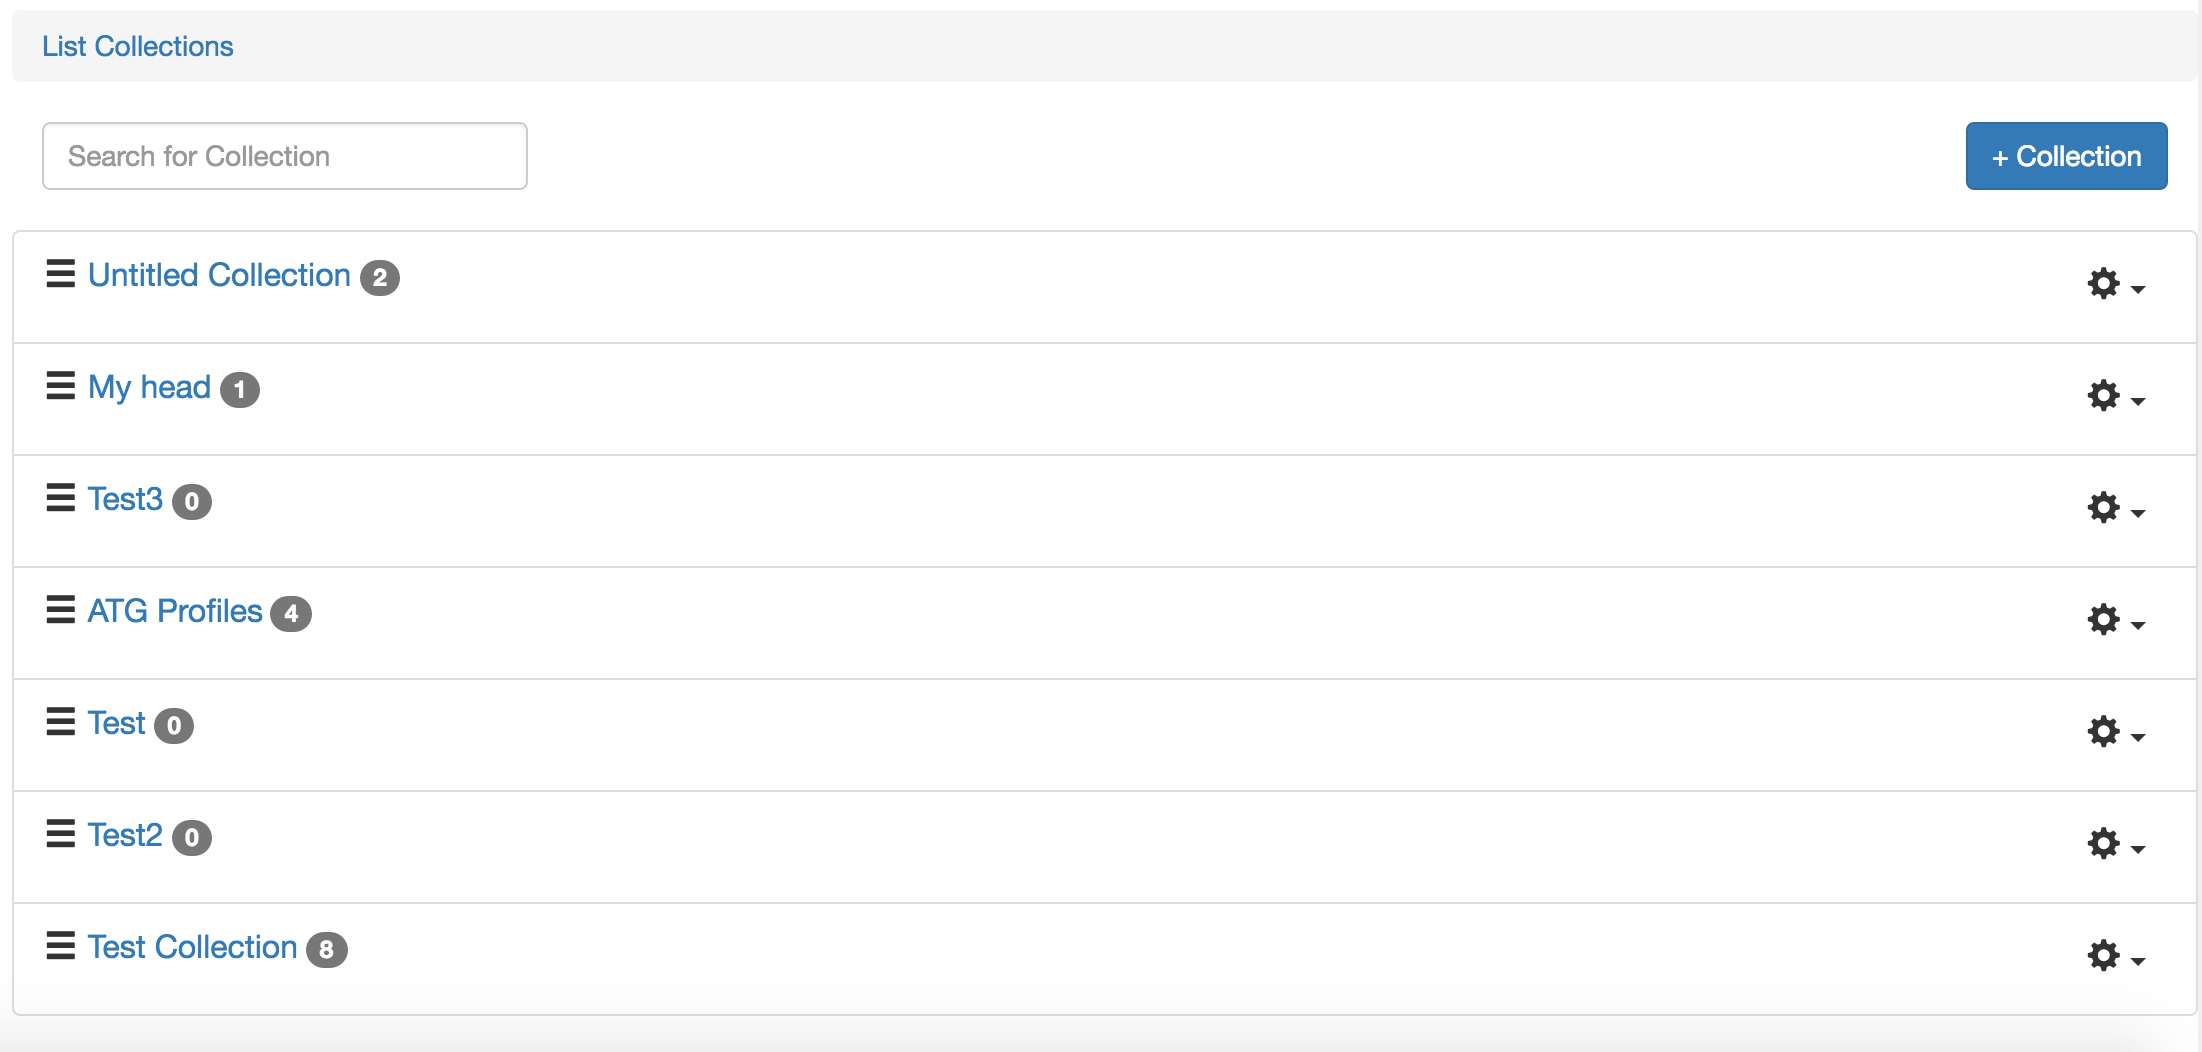
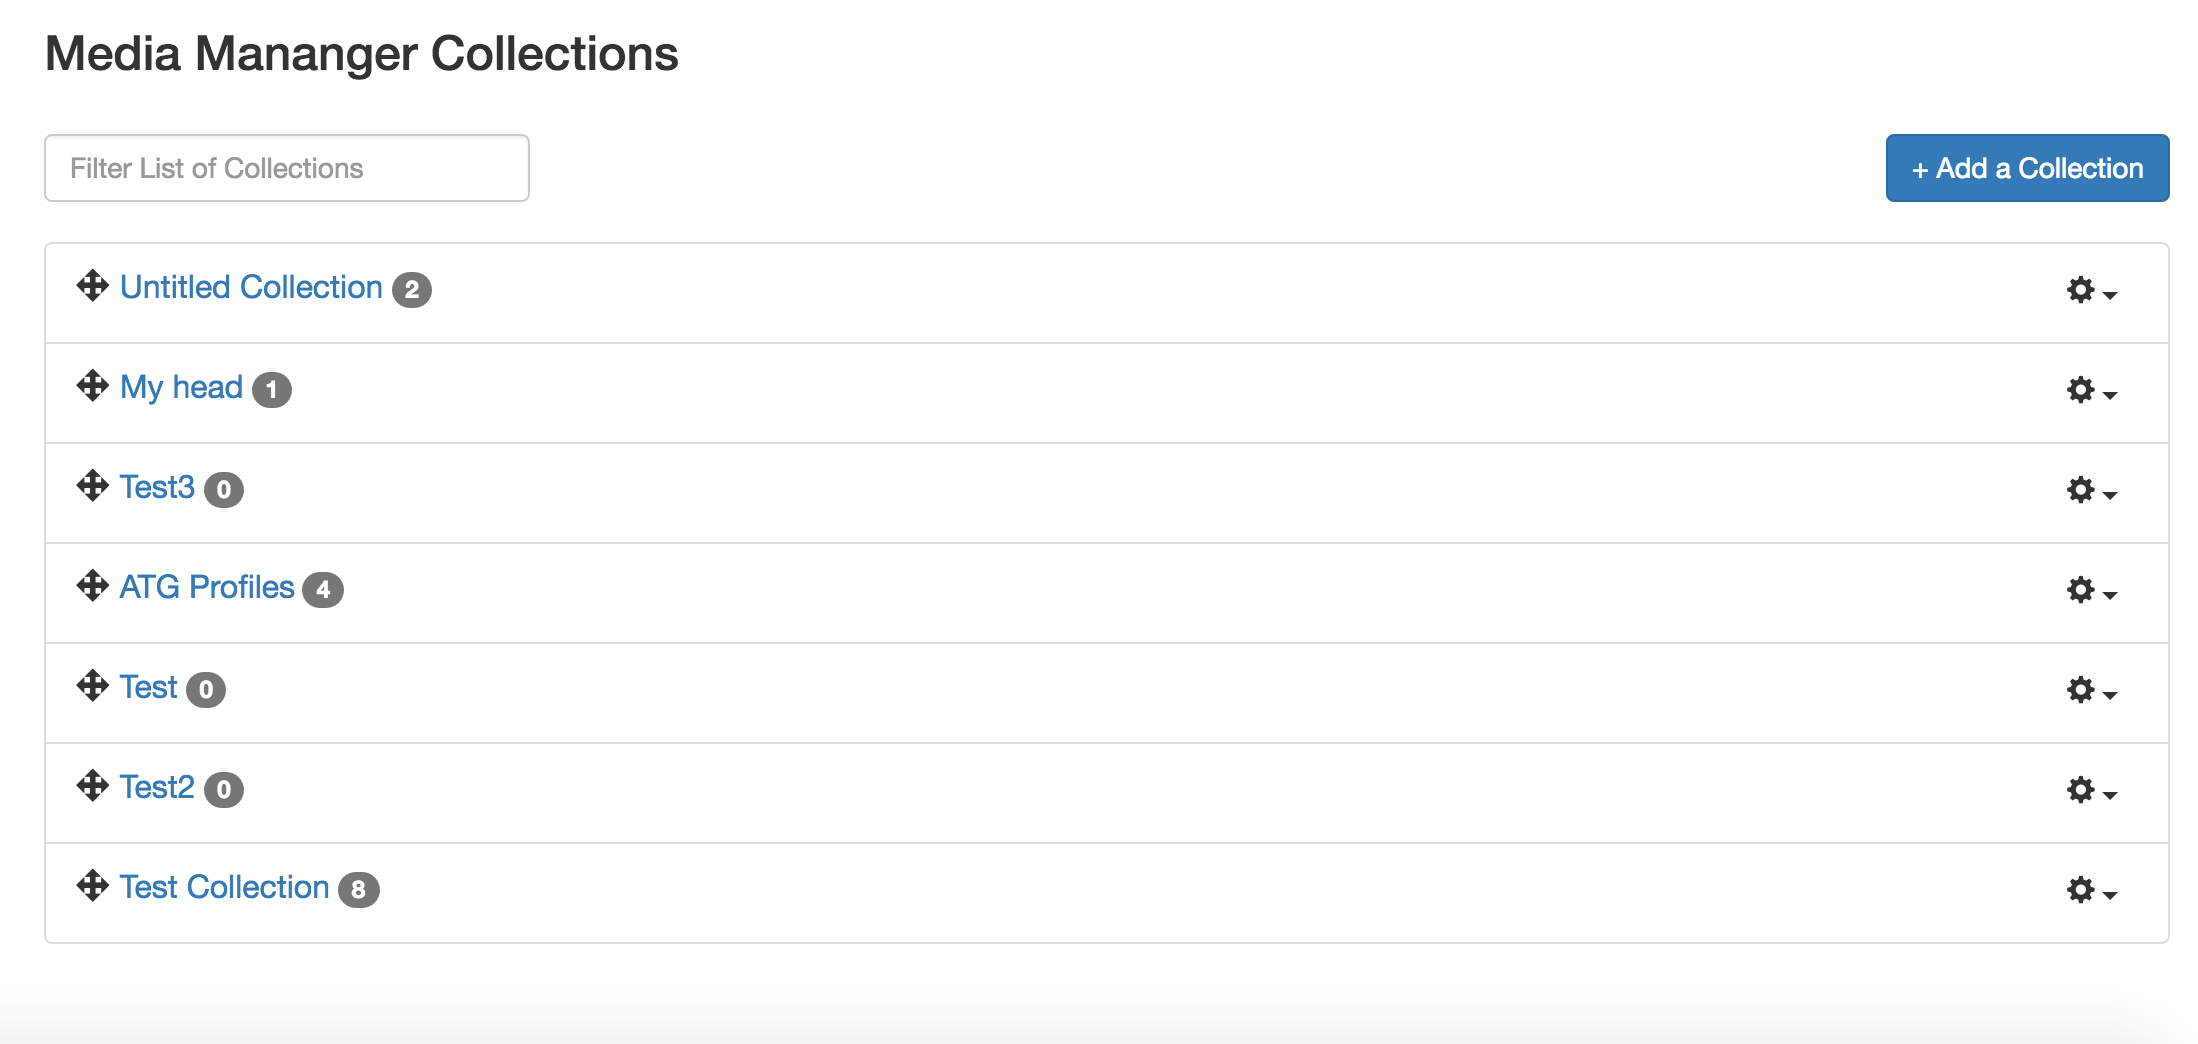
Media Manager home - proposed UI code and screen capture

diff --git a/Media_Manager_home/index.html b/Media_Manager_home/index.html
@@ -14,6 +14,16 @@ window.appConfig = {
     }
 };
   </script>
+<!-- UI comment - modifying vendor.css class to match glyphicon-cog font size with the one of the glyphicon-move icon -->
+<!-- UI comment - modifying vendor.css class to change the color of the background color of the breadcrumb class to white -->
+  <style>
+  .btn-sm {
+    font-size:1.2em;
+  }
+  .breadcrumb {
+    background-color: #ffffff;
+  }
+  </style>
 </head>
 <body ng-app="media_manager" class="ng-scope">
 
@@ -39,25 +49,33 @@ window.appConfig = {
   </nav>
 -->
 
-  <!-- ngView:  --><div ng-view="" class="ng-scope"><!-- ngInclude:  --><div data-ng-include="" data-src="'/static/app/templates/breadcrumbs.html'" class="ng-scope"><ol ng-controller="BreadcrumbsController" class="breadcrumb ng-scope">
-  <!-- ngRepeat: crumb in crumbs --><li ng-repeat="crumb in crumbs" class="ng-scope"><a href="#/" class="ng-binding">List Collections</a></li><!-- end ngRepeat: crumb in crumbs -->
+  <!-- ngView:  --><div ng-view="" class="ng-scope"><!-- ngInclude:  --><div data-ng-include="" data-src="'/static/app/templates/breadcrumbs.html'" class="ng-scope">
+<!-- UI comment - h3 header breadcrumb as in other LTI tools, like Find Cousre Info -->
+  <ol ng-controller="BreadcrumbsController" class="breadcrumb ng-scope">
+  <!-- ngRepeat: crumb in crumbs --><li ng-repeat="crumb in crumbs" class="ng-scope">
+  <!-- UI comment - inline style to compensate for the spacing added by the header -->
+  <h3 style="margin-top:-.05em; margin-bottom:-.05em;">Media Maanger Collections</h3></li><!-- end ngRepeat: crumb in crumbs -->
 </ol>
 </div>
 
 <div class="row header-bar ng-scope">
   <div class="col-md-3">
-    <input ng-model="query" type="text" name="query" class="form-control ng-pristine ng-untouched ng-valid" placeholder="Search for Collection" aria-label="Search for Collection">
+    <!-- UI comment - change placeholder to "Filter List of Collections" -->
+    <input ng-model="query" type="text" name="query" class="form-control ng-pristine ng-untouched ng-valid" placeholder="Search for Collection" aria-label="Filter List of Collections">
   </div>
   <div class="col-md-9">
-    <!-- ngIf: lc.canEdit --><div ng-if="lc.canEdit" class="ng-scope"><a class="btn btn-primary pull-right" ng-href="/#/workspace" href="/#/workspace">+ Collection</a></div><!-- end ngIf: lc.canEdit -->
+    <!-- UI comment - Change "+ Collection" to "+ Add a Collection" -->
+    <!-- ngIf: lc.canEdit --><div ng-if="lc.canEdit" class="ng-scope"><a class="btn btn-primary pull-right" ng-href="/#/workspace" href="/#/workspace">+ Add a Collection</a></div><!-- end ngIf: lc.canEdit -->
   </div>
 </div>
 
 <span us-spinner="{top:200}" spinner-on="lc.isLoadingCollections.status" class="ng-scope"></span>
 
-<ul class="list-group ng-pristine ng-untouched ng-valid ng-scope" as-sortable="lc.dragControlListeners" ng-model="lc.collections">
+<!-- UI comment - wrapping the ul in a col-md-12 div to line up with the above div -->
+<div class="col-md-12">
+  <ul class="list-group ng-pristine ng-untouched ng-valid ng-scope" as-sortable="lc.dragControlListeners" ng-model="lc.collections">
   <!-- ngRepeat: collection in lc.collections | filter:query --><li class="list-group-item clearfix ng-scope as-sortable-item" ng-repeat="collection in lc.collections | filter:query" as-sortable-item="">
-    <div class="glyphicon glyphicon-menu-hamburger pull-left collection-drag-handle ng-scope as-sortable-item-handle" as-sortable-item-handle="" aria-hidden="true"></div>
+    <div class="glyphicon glyphicon-menu-move pull-left collection-drag-handle ng-scope as-sortable-item-handle" as-sortable-item-handle="" aria-hidden="true"></div>
     <!-- ngIf: lc.canEdit --><div ng-if="lc.canEdit" class="ng-scope">
       <div class="btn-group dropdown pull-right" uib-dropdown="" is-open="status.isopen" style="">
         <button id="single-button" type="button" class="collection-edit-button btn btn-default btn-sm dropdown-toggle" uib-dropdown-toggle="" ng-disabled="disabled" aria-haspopup="true" aria-expanded="false">
@@ -75,7 +93,7 @@ window.appConfig = {
       <span class="badge ng-binding">2</span>
     </div>
   </li><!-- end ngRepeat: collection in lc.collections | filter:query --><li class="list-group-item clearfix ng-scope as-sortable-item" ng-repeat="collection in lc.collections | filter:query" as-sortable-item="">
-    <div class="glyphicon glyphicon-menu-hamburger pull-left collection-drag-handle ng-scope as-sortable-item-handle" as-sortable-item-handle="" aria-hidden="true"></div>
+    <div class="glyphicon glyphicon-menu-move pull-left collection-drag-handle ng-scope as-sortable-item-handle" as-sortable-item-handle="" aria-hidden="true"></div>
     <!-- ngIf: lc.canEdit --><div ng-if="lc.canEdit" class="ng-scope">
       <div class="btn-group dropdown pull-right" uib-dropdown="" is-open="status.isopen" style="">
         <button id="single-button" type="button" class="collection-edit-button btn btn-default btn-sm dropdown-toggle" uib-dropdown-toggle="" ng-disabled="disabled" aria-haspopup="true" aria-expanded="false">
@@ -93,7 +111,7 @@ window.appConfig = {
       <span class="badge ng-binding">1</span>
     </div>
   </li><!-- end ngRepeat: collection in lc.collections | filter:query --><li class="list-group-item clearfix ng-scope as-sortable-item" ng-repeat="collection in lc.collections | filter:query" as-sortable-item="">
-    <div class="glyphicon glyphicon-menu-hamburger pull-left collection-drag-handle ng-scope as-sortable-item-handle" as-sortable-item-handle="" aria-hidden="true"></div>
+    <div class="glyphicon glyphicon-menu-move pull-left collection-drag-handle ng-scope as-sortable-item-handle" as-sortable-item-handle="" aria-hidden="true"></div>
     <!-- ngIf: lc.canEdit --><div ng-if="lc.canEdit" class="ng-scope">
       <div class="btn-group dropdown pull-right" uib-dropdown="" is-open="status.isopen" style="">
         <button id="single-button" type="button" class="collection-edit-button btn btn-default btn-sm dropdown-toggle" uib-dropdown-toggle="" ng-disabled="disabled" aria-haspopup="true" aria-expanded="false">
@@ -111,7 +129,7 @@ window.appConfig = {
       <span class="badge ng-binding">0</span>
     </div>
   </li><!-- end ngRepeat: collection in lc.collections | filter:query --><li class="list-group-item clearfix ng-scope as-sortable-item" ng-repeat="collection in lc.collections | filter:query" as-sortable-item="">
-    <div class="glyphicon glyphicon-menu-hamburger pull-left collection-drag-handle ng-scope as-sortable-item-handle" as-sortable-item-handle="" aria-hidden="true"></div>
+    <div class="glyphicon glyphicon-menu-move pull-left collection-drag-handle ng-scope as-sortable-item-handle" as-sortable-item-handle="" aria-hidden="true"></div>
     <!-- ngIf: lc.canEdit --><div ng-if="lc.canEdit" class="ng-scope">
       <div class="btn-group dropdown pull-right" uib-dropdown="" is-open="status.isopen" style="">
         <button id="single-button" type="button" class="collection-edit-button btn btn-default btn-sm dropdown-toggle" uib-dropdown-toggle="" ng-disabled="disabled" aria-haspopup="true" aria-expanded="false">
@@ -129,7 +147,7 @@ window.appConfig = {
       <span class="badge ng-binding">4</span>
     </div>
   </li><!-- end ngRepeat: collection in lc.collections | filter:query --><li class="list-group-item clearfix ng-scope as-sortable-item" ng-repeat="collection in lc.collections | filter:query" as-sortable-item="">
-    <div class="glyphicon glyphicon-menu-hamburger pull-left collection-drag-handle ng-scope as-sortable-item-handle" as-sortable-item-handle="" aria-hidden="true"></div>
+    <div class="glyphicon glyphicon-menu-move pull-left collection-drag-handle ng-scope as-sortable-item-handle" as-sortable-item-handle="" aria-hidden="true"></div>
     <!-- ngIf: lc.canEdit --><div ng-if="lc.canEdit" class="ng-scope">
       <div class="btn-group dropdown pull-right" uib-dropdown="" is-open="status.isopen" style="">
         <button id="single-button" type="button" class="collection-edit-button btn btn-default btn-sm dropdown-toggle" uib-dropdown-toggle="" ng-disabled="disabled" aria-haspopup="true" aria-expanded="false">
@@ -147,7 +165,7 @@ window.appConfig = {
       <span class="badge ng-binding">0</span>
     </div>
   </li><!-- end ngRepeat: collection in lc.collections | filter:query --><li class="list-group-item clearfix ng-scope as-sortable-item" ng-repeat="collection in lc.collections | filter:query" as-sortable-item="">
-    <div class="glyphicon glyphicon-menu-hamburger pull-left collection-drag-handle ng-scope as-sortable-item-handle" as-sortable-item-handle="" aria-hidden="true"></div>
+    <div class="glyphicon glyphicon-menu-move pull-left collection-drag-handle ng-scope as-sortable-item-handle" as-sortable-item-handle="" aria-hidden="true"></div>
     <!-- ngIf: lc.canEdit --><div ng-if="lc.canEdit" class="ng-scope">
       <div class="btn-group dropdown pull-right" uib-dropdown="" is-open="status.isopen" style="">
         <button id="single-button" type="button" class="collection-edit-button btn btn-default btn-sm dropdown-toggle" uib-dropdown-toggle="" ng-disabled="disabled" aria-haspopup="true" aria-expanded="false">
@@ -165,7 +183,7 @@ window.appConfig = {
       <span class="badge ng-binding">0</span>
     </div>
   </li><!-- end ngRepeat: collection in lc.collections | filter:query --><li class="list-group-item clearfix ng-scope as-sortable-item" ng-repeat="collection in lc.collections | filter:query" as-sortable-item="">
-    <div class="glyphicon glyphicon-menu-hamburger pull-left collection-drag-handle ng-scope as-sortable-item-handle" as-sortable-item-handle="" aria-hidden="true"></div>
+    <div class="glyphicon glyphicon-menu-move pull-left collection-drag-handle ng-scope as-sortable-item-handle" as-sortable-item-handle="" aria-hidden="true"></div>
     <!-- ngIf: lc.canEdit --><div ng-if="lc.canEdit" class="ng-scope">
       <div class="btn-group dropdown pull-right" uib-dropdown="" is-open="status.isopen" style="">
         <button id="single-button" type="button" class="collection-edit-button btn btn-default btn-sm dropdown-toggle" uib-dropdown-toggle="" ng-disabled="disabled" aria-haspopup="true" aria-expanded="false">
@@ -184,6 +202,7 @@ window.appConfig = {
     </div>
   </li><!-- end ngRepeat: collection in lc.collections | filter:query -->
 </ul>
+</div>
 </div>
 
 
